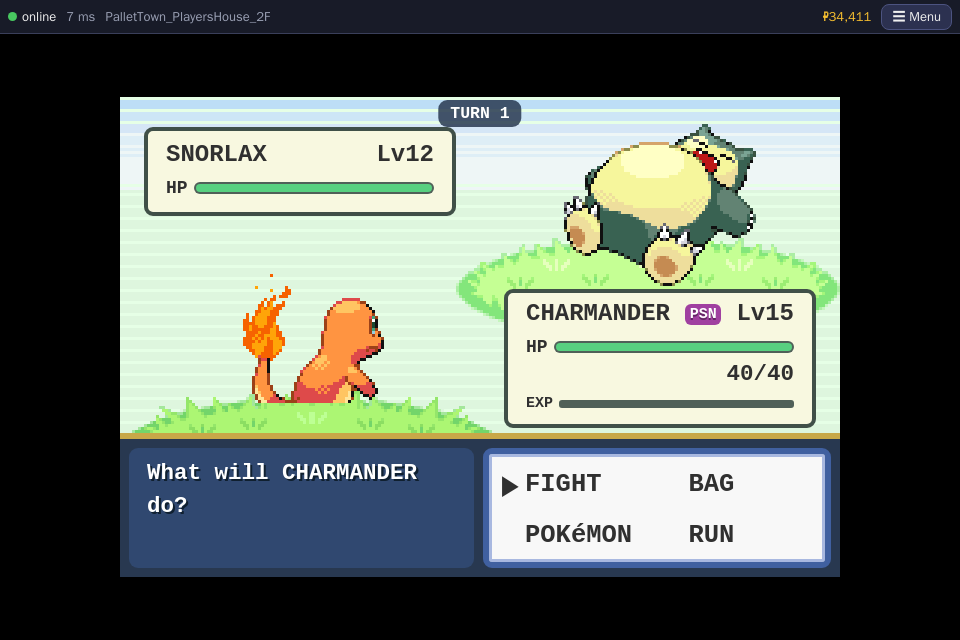
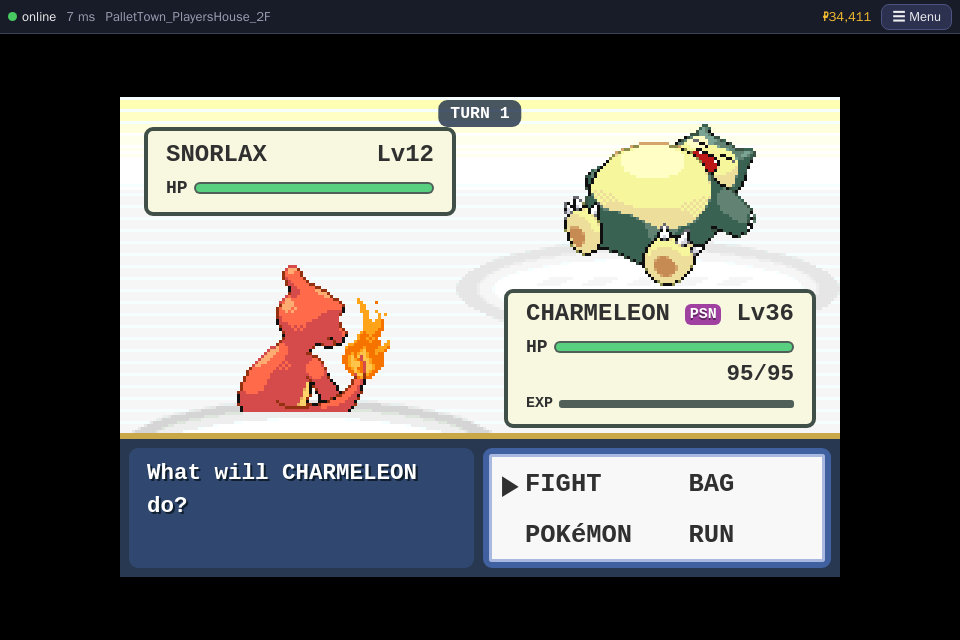
docs(battle): r3-battle REPORT, PROTOCOL section 6, verification screenshots

Changed region(s): [[0.125, 0.2812, 0.875, 0.6875], [0.125, 0.125, 0.875, 0.25], [0.3438, 0.7188, 0.4375, 0.75]]

diff --git a/REPORT.md b/REPORT.md
@@ -1,0 +1,187 @@
+# r3-battle: the Gen 3 battle system
+
+## What was built
+
+### Server battle engine (`server.game/.../battle/`)
+`TurnEngine` was rewritten as a Gen 3 engine. The rules follow the decomp's `src/battle_main.c` (turn order), `battle_script_commands.c` (move effects, catch formula) and `battle_util.c` (end of turn, abilities, items). It is split over `TurnEngine` (API), `MoveRunner` (order, attack canceler, accuracy, damage), `MoveEffects`, `StatusRules`, `AbilityRules`, `ItemRules`, `BattleAi`, `CatchCalculator` and `BattleCtx`.
+
+- **Turn order.** Switches and items go first. Moves then go by priority, then Quick Claw, then speed (paralysis quarters it; Swift Swim, Chlorophyll and Macho Brace apply), then a random tie-break. The engine works on battle positions (`BattlerRef`), so singles and doubles share one code path.
+- **Major status.**
+  - Burn: 1/8 hp at the end of the turn, and halves physical damage unless the monster has Guts.
+  - Poison 1/8; bad poison n/16, growing each turn.
+  - Paralysis: a 25% chance to lose the turn, and speed quartered.
+  - Sleep: lasts 2-5 turns (Early Bird counts down twice as fast), and the monster acts on the turn it wakes. Rest gives a fixed sleep.
+  - Freeze: 20% thaw chance per turn. A fire hit, Flame Wheel or Sacred Fire also thaws it; nothing freezes in sun.
+  - Type immunities (Poison/Steel, Fire, Ice) and ability immunities (Insomnia, Vital Spirit, Immunity, Limber, Water Veil, Magma Armor) apply, as do Safeguard and Synchronize.
+- **Volatile effects.**
+  - Confusion lasts 2-5 turns, with a 50% chance of a 40-power self-hit.
+  - Flinch only works if the target hasn't moved yet; Inner Focus blocks it; Fake Out flinches for certain.
+  - Also implemented: attraction, Leech Seed, trapping moves, Disable, Encore, Taunt, Yawn, Substitute, Protect / Endure (with the falling chance on repeated use), Focus Energy, Foresight, Lock-On, Curse, Nightmare, Perish Song, Destiny Bond, Ingrain, Charge, Stockpile, and Rage.
+- **Move effects.** Almost every Gen 3 `MoveEffect` is implemented:
+  - every stat move, plus secondary chances doubled by Serene Grace and blocked by Shield Dust;
+  - multi-hit moves and Triple Kick;
+  - drain, recoil and crash moves, and Explosion;
+  - two-turn and semi-invulnerable moves (Fly/Dig/Dive with the moves that reach them), and recharge;
+  - rampage moves, Rollout and Fury Cutter;
+  - fixed-damage moves, OHKO moves, Counter and Mirror Coat;
+  - variable-power moves: Flail, Return, Frustration, Eruption, Magnitude, Present, Hidden Power, Weather Ball, Facade, SmellingSalt, Revenge;
+  - weather moves (5 turns), screens, Mist, Safeguard and Spikes;
+  - healing moves, Wish, Future Sight, Heal Bell, Haze, Pain Split and Transform;
+  - Roar (ends a wild battle, drags out a trainer's monster), Teleport, Baton Pass, Metronome, Sleep Talk, Assist, Mirror Move and Nature Power;
+  - Thief, Knock Off and Trick; Rapid Spin; Pay Day; Camouflage and Conversion 1/2.
+
+  The few effects left (Sketch, Snatch, Magic Coat and similar) fail with "But it failed!".
+- **Damage.** It follows `CalculateBaseDamage` and `Cmd_damagecalc`:
+  - stages, with crits ignoring the stages that work against the attacker;
+  - crit stages from high-crit moves, Focus Energy, Scope Lens, Lucky Punch and Stick;
+  - Reflect and Light Screen (2/3 in doubles), spread moves at half damage, weather, Flash Fire, Mud Sport / Water Sport;
+  - the pinch abilities Overgrow, Blaze, Torrent and Swarm;
+  - Huge Power, Pure Power, Hustle, Guts, Marvel Scale, Thick Fat and Plus/Minus;
+  - held items: type boosters, Choice Band, Light Ball, Thick Club, Soul Dew, DeepSeaTooth/Scale and Metal Powder;
+  - STAB, the type chart with Foresight, and the random factor.
+- **Abilities.**
+  - On entry: Intimidate, Drizzle, Drought, Sand Stream, Trace, Pressure (also costs an extra pp), Cloud Nine and Air Lock.
+  - On contact: Static, Flame Body, Poison Point, Effect Spore, Rough Skin and Cute Charm.
+  - Absorbing: Levitate, Volt Absorb, Water Absorb and Flash Fire.
+  - Wonder Guard, Soundproof, Sturdy (against OHKO moves, as in Gen 3), Damp, Liquid Ooze, Rock Head and Suction Cups.
+  - End of turn: Speed Boost, Shed Skin and Rain Dish.
+  - Truant, Natural Cure, Compound Eyes, Sand Veil and Battle/Shell Armor.
+  - Stat-drop guards: Clear Body, White Smoke, Hyper Cutter and Keen Eye.
+  - Trapping: Shadow Tag, Arena Trap and Magnet Pull.
+- **Held items.** The effect table is generated from the decomp's `src/data/items.h` (`HOLD_EFFECT_*` and their params, 71 items):
+  - Leftovers and Shell Bell;
+  - every berry: hp berries, confusion berries keyed to the nature's disliked flavour, pinch stat berries, Lansat, Starf, the status berries, Lum, Persim and Leppa;
+  - White Herb, Mental Herb, Quick Claw, King's Rock, BrightPowder / Lax Incense, Focus Band, Scope Lens and Choice Band (with its move lock);
+  - Smoke Ball, Macho Brace, Amulet Coin, Lucky Egg, Exp. Share and Everstone.
+
+  Wild monsters roll the species' held items (50% common, 5% rare). Trainer monsters carry their decomp held items.
+- **AI.**
+  - Wild monsters use a random move at a random foe.
+  - Trainers score their moves the way the Gen 3 AI scripts do (check bad move, try to faint, check viability). They skip immune targets, status a monster that already has one, and stat moves at the cap.
+  - Trainers use their decomp `items` (potions and status heals) when it makes sense.
+- **Escape.** The Gen 3 run formula (speed ratio + 30 per attempt), Smoke Ball, Run Away and the trapping blockers.
+- **Catching** (`CatchCalculator`). This is `Cmd_handleballthrow`:
+  - catch rate × ball ÷ 10 × hp factor, ×2 for sleep or freeze, ×1.5 for poison, burn or paralysis;
+  - the shake test is `1048560/sqrt(sqrt(16711680/odds))` against 16-bit rolls, so a throw shows 0-3 shakes, or 3 and caught;
+  - ball multipliers: Poké, Great, Ultra, Master, Safari, Net, Dive (underwater maps), Nest, Repeat (already owns that species), Timer (battle turns), Luxury and Premier;
+  - the ball is taken from the bag; trainers block balls ("Don't be a thief!"); a sixth catch goes to the PC.
+- **In-battle bag** (`BattleItemEffects`):
+  - potions and drinks, revives, single-status heals, Full Heal, Full Restore;
+  - PP restorers (one-move items ask for the move);
+  - X items, Dire Hit, Guard Spec, Poké Doll / Fluffy Tail;
+  - every ball.
+
+  The item is consumed and spends that position's turn. Balls are refused against trainers and players. The usable bag goes to the client in the extension state.
+- **Persistence.** Migration `V8_1` adds `pokemon.status` (Gen 3 packed status1), `friendship` and `held_item`, and `Pokemon` gains those three fields.
+  - Status, held items and friendship are written back after every battle. Natural Cure clears the status; a faint costs 1 friendship and a level-up gives +5/+3/+2.
+  - The status carries into the field and the next battle. A Poké Center heal (`StoryPlayerService.healParty`) and the field status heals clear it.
+- **EXP.** It is split between the party monsters that fought the defeated monster, with Exp. Share taking half, Lucky Egg ×1.5 and traded monsters ×1.5. EVs go to every recipient, and moves are learned on every level gained.
+
+### Double battles
+- **Trainer doubles.** A decomp trainer with `doubleBattle = TRUE` (Hoenn twins, Tate & Liza, and so on) is fought 2v2 when the player has two healthy monsters.
+- **Turn flow.** Each position picks with a target. Spread moves hit both foes at half damage; Earthquake-style moves hit the ally too. Fainted positions are refilled one by one; a position with no bench left stays empty.
+- **PvP 2v2.** The duel rules carry a `doubles` flag. Both views share the sides and the field, and each player's choices (targets flipped) resolve in one engine call.
+- **Per-viewer names.** Battle lines carry name tokens that each viewer reads as "X" / "Foe X" / "Wild X".
+
+### Evolution (`EvolutionService`, `codegen` evolution table)
+- **Data.** A new codegen generator reads `src/data/pokemon/evolution.h` (184 rows, national dex numbers). It also emits the GBA item-name table and the hold-effect table.
+- **`tryEvolve(mon, trigger)`** follows `GetEvolutionTargetSpecies`. Level-up methods are level, friendship ≥ 220 (day 12-23 / night 0-11), attack vs defense, Silcoon/Cascoon by personality, and Ninjask, which also leaves a Shedinja behind. Trade and trade-with-item are covered too. Stones are matched by item. An Everstone blocks level evolutions.
+- **Hooks.** After each battle the monsters that levelled are checked. `useEvolutionItem(session, charId, monId, itemId)` is the stone hook, and `FieldItemService` calls it for evolution stones. `onTraded(charId, mon)` is the trade hook for the social branch.
+- **Scene.** It plays over `{"t":"evo"}` and the client answers with `EvolutionReplyPacket`; B stops it.
+- **On completion.** The species changes and the stats are recomputed (lost hp stays lost). The new species' moves at the current level are learned, with a prompt when the moveset is full. The party is synced, and a stone is used up only when the evolution completes.
+
+### Wild encounters (`EncounterService`, checked against `src/wild_encounter.c`)
+- **Tiles.** Before, only grass rolled. Now cave floors (`MB_CAVE`), `MB_INDOOR_ENCOUNTER`, deep sand / footprints and ash grass roll the land table too. FireRed tiles roll by their metatile **encounter-type bits** (land / water), which the codegen now reads. Surfable water rolls the WATER table.
+- **Rate.** Table rate × 16 against 2880, with a 60% gate when stepping onto a new tile type. The lead's ability changes the rate (both games: Stench, Illuminate; Emerald only: White Smoke, Arena Trap), as does a Cleanse Tag.
+- **FireRed only.** The per-map step cooldown and the miss rate buff.
+- **Emerald only.**
+  - Static / Magnet Pull force an Electric / Steel slot half the time.
+  - Hustle / Vital Spirit / Pressure push the level to the slot's maximum half the time.
+  - Keen Eye / Intimidate skip weak encounters.
+- **Slots.** The slot percentages come from the decomp JSON, and the repel works as before.
+- **Background.** `terrainFor` gives the battle background as `BattleSetup_GetEnvironmentId` does (grass, long grass, sand, cave, building, water, pond, underwater, mountain, plain).
+
+### Client, gateway and browser
+- **Protocol.** There is a new extension channel (see PROTOCOL changes). `BattleClient` turns it into state: format, positions, statuses, confusion, abilities, items, weather, trainer pic, background, music, bag and the evolution scene. It also adds `fightAt` (position and target), `useItem`, `throwBall(item)` and `answerEvolution`. FX entries carry entity ids, sent as strings because 64-bit ids don't fit a JS number.
+- **`battle.js` / `battle.css`:**
+  - double-battle layout with compact info boxes, and a target picker (foe 1 / foe 2 / ally) for single-target moves;
+  - PSN/BRN/PAR/SLP/FRZ status chips in the info boxes and party lists;
+  - a full BAG with ITEMS / BALLS / BATTLE pockets and party / move target pickers;
+  - the terrain background from the exported battle backgrounds;
+  - the trainer's front sprite sliding in and stepping aside at send-out; the player's back sprite with its throw frames;
+  - move animation sprite sheets per type flying from attacker to target;
+  - ability and item banners, a weather overlay, a confusion swirl, a sleep "Z";
+  - ball colours per ball; the break-open animation is now reachable;
+  - the evolution scene: flashing silhouettes speeding up, B stops it, "Congratulations!" with the learned moves. It waits until the battle screen is gone.
+  - the duel dialog gains a 1v1 / 2v2 choice.
+- **Assets** (`BattleAssetsExport`, a new file in `:web.assets`):
+  - 166 trainer front sprites;
+  - Brendan, May, Red and Leaf back sprites;
+  - 20 Emerald and 18 FireRed battle backgrounds, rendered from tiles, tilemap and palette. They include the leader, gym, stadium, Elite Four, champion and Aqua/Magma palettes, chosen by trainer class.
+  - 22 animation sprite sheets.
+- **Music.** The battle state's `music` key is `wild|trainer|gym|elite|champion|rival|team|pvp`. `manifest.battleMusicExtra[region]` has the elite / champion / rival / team / pvp songs, next to `battleMusic.gym`.
+
+## How it was verified
+- **Tests.** `:server.game:test :protocols.game:test :client:check :web.gateway:test :web.assets:test :codegen:test` ran 505 tests with 0 failures. New tests:
+  - `Gen3RulesTest` (28 tests):
+    - status: burn damage and halving, poison and toxic growth, type immunities, paralysis speed and Thunder Wave vs Ground, sleep turns and acting on wake, freeze thaw by fire, confusion and Own Tempo, flinch / Fake Out, the secondary chance;
+    - abilities: Intimidate, Levitate, Sturdy, Volt Absorb, Static rate, Swift Swim, Overgrow;
+    - held items: Leftovers, Oran, Lum, Choice Band, Quick Claw;
+    - catching: the catch odds and every ball multiplier, the shake distribution;
+    - the rest: bag items, doubles spread and targeting, Protect, Rain Dance's 5 turns, escape, priority, status persistence.
+  - `EvolutionAndEncounterTest` (14 tests):
+    - evolution: level, Everstone, friendship with day/night, stones, trade with and without an item, Wurmple, the scene proceeding and B stopping it, the stone consumed;
+    - encounters: encounter tiles, terrain mapping, slot percentages, rate and Stench.
+  - `BattleServiceR3Test`:
+    - a double trainer battle (format 2, waiting for both picks, a KO of both foes);
+    - the trainer blocking a ball;
+    - a potion consumed and spending the turn;
+    - status persisting after a battle.
+  - Codec tests for the new packets and the doubles flag, plus Dispatcher tests for every new message.
+- **Gateway e2e.** ALL OK on 3 consecutive runs against freshly created databases. One earlier run timed out at the trade step ("offers visible"); that step is outside the battle code, and the next three runs passed.
+- **Real stack** (login 2196, game 7867, gateway 8510, own Postgres pair, docker Chromium). I looked at every screenshot; they are in `docs/web/r3-battle/`.
+  - **Status battle (01-05).** The poison set on the monster before the battle shows as PSN when it starts. The BAG offers Antidote with a party target and cures it. Thunder Wave paralyzes Snorlax (PAR chip). Throughout the rest of the run the caught Snorlax kept PAR in the party list.
+  - **Catch fails, then succeeds (06-10).** The BALLS pocket; a Poké Ball breaks free ("Oh, no! The POKéMON broke free!"); then the Master Ball (purple) holds: "Gotcha!", result CAUGHT, ball taken from the bag.
+  - **Evolution.**
+    - 11-13: a Thunderstone on Pikachu evolves it into Raichu.
+    - 14 and 14b: Charmander levels to 16 in a battle and the scene starts after the battle screen closes; this run evolved into Charmeleon.
+    - 15: B stops Charmeleon → Charizard ("Huh? CHARMELEON stopped evolving!"), and the species is unchanged.
+  - **Hoenn double trainer battle (16-20d).** Tate & Liza (`/testtrainer 271 hoenn`) on the gym-leader background, with Claydol and Xatu against Charmeleon and Raichu. The target picker appears (CLAYDOL / XATU / RAICHU ALLY). Claydol's Earthquake hits both of ours and its own ally, and Xatu, a Flying type, is immune. There are two forced replacements, a second turn is fought, and an empty position stays empty.
+  - **2v2 PvP (21-24).** Two concurrent browsers duel with `doubles: true`. Each picks targets for both positions. We saw Leech Seed, Thunder Wave paralysis and the end-of-turn sap. Each side reads its own monsters without the "Foe" prefix.
+  - **Trainer intro (27-29).** Brawly's front sprite and Red's back sprite before the send-out.
+  - **Mobile (25, 26).** A burned monster's battle and the bag on a Pixel 7.
+
+## Not done / known limits
+- **Encounter features from other lanes.**
+  - Fishing / Rock Smash encounters need the rods and the field move (r3-field / r3-items). `EncounterService` reads the decomp tables for them but does not trigger them.
+  - Bike and flute rate modifiers aren't applied; the server has no bike or flute state.
+  - Water encounters fire on surfable water tiles, which become reachable once r3-field ships Surf.
+- **Trade evolutions.** `EvolutionService.onTraded` is exposed, but `TradeService` (r3-social) still has to call it after a completed trade. I didn't touch it, to avoid a merge conflict in their constructor and tests.
+- **Field poison.** The status persists into the field, but poison damage every 4 steps is field-movement logic (r3-field) and is not implemented.
+- **Held items outside battle.** The battle uses `Pokemon.heldItem` (wild and trainer items, Thief / Trick). Giving and taking items in the party menu is r3-items' work; `/monset <slot> held <ITEM>` sets one for testing.
+- **Moves and mechanics not implemented.** Beauty (Feebas) evolution, Sketch, Snatch, Magic Coat, Imprison, Grudge, Follow Me redirection, Pursuit's switch bonus and Forecast fail or act as a plain hit. Low Kick uses a flat 60 power because the server has no weights. Gen 3 trainer AI switching is not modelled.
+- **Music.** The battle state's `music` key and `manifest.battleMusicExtra` are exported, but the player that picks the song is `main.js`'s `wantedSong` (r3-present). It still picks wild/trainer and needs a two-line change to use `battle.music`.
+- **Opponent name on the cross-region dev path.** When a trainer from the other region is started with `/testtrainer <id> hoenn`, the very first "X sent out" line could still use the local region's trainer name. Since the extended state now goes first this is fixed in practice, but it is not covered by a test.
+
+## Files touched outside my lane (small, additive)
+- `common/.../Pokemon.kt`: three fields with defaults (`status`, `friendship`, `heldItem`) and `StatusCondition`.
+- `common/.../TileBehavior.kt`: new entries appended (CAVE, INDOOR_ENCOUNTER, DEEP_SAND, ASH_GRASS, LAND_ENCOUNTER, SAND, MOUNTAIN, POND_WATER, DEEP_WATER) and `hasLandEncounters` / `isSurfableWater`.
+- `codegen/.../maps/MetatileBehaviors.kt`: classifies those behaviors and FireRed's encounter-type bits.
+- `codegen/build.gradle.kts`: the new `evolution` generator.
+- `codegen/.../trainer/*` and `TrainerRegistry.kt`: `pic`, `className`, `items`, `music` and `heldItemName`, all defaulted.
+- `server.game/.../storage/CharacterRepository.kt` and `MarketRepository.kt`: map the three new columns.
+- `server.game/.../services/StoryPlayerService.kt`: the Poké Center heal clears the status (one line).
+- `server.game/.../services/FieldItemService.kt`: an evolution-stone hook (optional constructor param) and the field status cure.
+- `server.game/.../handler/GameAppHandler.kt`: 2 handlers and 1 constructor param.
+- `server.game/.../di/ChatCommandModule.kt`: the `/monset` dev command.
+- `protocols.game/.../GameProtocol.kt`: 3 registrations.
+- `web/static/js/net.js`: the `evolution` section name.
+- `web/assets-export/.../Main.kt`: puts `battle` and `battleMusicExtra` in the manifest, and adds the exporter's failures.
+- Tests adjusted: `TurnEngineTest`, `BattleServiceTest` (start sequence, ball tests), `StateJsonTest` (section list, r3 fields), `DispatcherTest` and `DuelRulesPacketsTest`.
+
+## PROTOCOL changes (additive)
+`docs/web/PROTOCOL.md` section **6. r3-battle additions**:
+- **Browser → gateway.** New messages `battle.item`, `evolution.answer` and `evolution.close`. Optional `pos` / `target` on `battle.fight`, `item` on `battle.ball`, and `doubles` on `duel`.
+- **Gateway → browser.** New `battle` fields, new `fx` kinds and ids, and the `evolution` section.
+- **Game protocol.** s2c **0xE6** `BattleExtPacket`, c2s **0xF0** `BattleExtActionPacket` and c2s **0xF2** `EvolutionReplyPacket`. The reserved s2c 0xF0-0xF3 were already taken by retail packets, so s2c uses 0xE6, which was free in every r3 worktree when picked. `DuelRules` packets gain a trailing flags byte.
+- **Assets.** `manifest.battle` and `manifest.battleMusicExtra`.

diff --git a/docs/web/PROTOCOL.md b/docs/web/PROTOCOL.md
@@ -281,3 +281,35 @@ serves `.mid` as `audio/midi`.
 - Controls: keyboard (arrows/WASD, Z/Space = A, X/Esc = B, Shift = run, Enter = chat), and on touch
   devices an on-screen D-pad + A/B buttons (multi-touch, no scroll/zoom on the canvas). UI panels
   (battle menu, trade, market, shop, chat) are HTML overlays usable by touch.
+
+## 6. r3-battle additions (all additive / optional)
+
+### 6.1 Browser → gateway
+| message | fields | meaning |
+|---|---|---|
+| `battle.fight` | `move` 0-3, optional `pos` 0-1, optional `target` `{side: "me"|"foe", pos: 0-1}` | a move for a battle position; without `pos`/`target` it is the old single-battle message |
+| `battle.item` | `item` (wire id), optional `mon` (party monster id, string), `moveSlot` 0-3 (one-move PP items), `pos` 0-1 | uses a bag item in battle (medicine on any party monster, X items on the position's monster); spends that position's turn |
+| `battle.ball` | optional `item` | throws that ball (default Poké Ball) |
+| `evolution.answer` | `proceed` bool | `false` = B pressed during the scene ("stopped evolving") |
+| `evolution.close` | — | closes a finished / cancelled evolution scene |
+| `duel` | optional `doubles` bool | 2v2 double duel (needs two healthy monsters on both sides, else 1v1) |
+
+### 6.2 Gateway → browser
+- `battle` gains: `format` (1|2), `actives` (party slot per position, -1 empty), `choosingPos` (position picking next, null when all picked), `owedSwitches`, `mine` / `foes` (monster per position, same shape as `me` / `foe`), `terrain` (background key, see 6.4), `music` (`wild|trainer|gym|elite|champion|rival|team|pvp`), `weather` (`none|rain|sun|sand|hail`), `trainer` `{pic, class}` or null, `bag` `[{id, name, count, target: foe|party|active|none, pocket: medicine|balls|battle, perMove?}]` (only items usable in this battle; no balls against trainers / players).
+- Every battle monster (`me`, `foe`, `mine[]`, `foes[]`, `party[]`) gains `id` (string), `slot`, `status` (`slp|psn|tox|brn|frz|par` or null), `confused`, and for own monsters `ability`, `item`, `substitute`. Moves gain `target` (the decomp MoveTarget: `SELECTED`, `BOTH`, `USER`, `FOES_AND_ALLY`, ...).
+- `fx` entries carry `id` (string entity id) where they concern one monster (`move` also `targetId`, `targets`), `switch` carries `pos`, `ball` carries `ball` (name), real `shakes` 0-3 and `caught`. New kinds: `status` (`status`), `ability` (`ability`, `name`), `item` (`item`, `consumed`, `name`), `weather` (`weather`), `volatile` (`kind`: confused|substitute|seeded, `on`), `revive`; `hp` gains `reason` (move|poison|burn|leftovers|berry|recoil|drain|weather|item|...).
+- New top-level section `evolution`: `{id, seq, phase: start|evolving|stopping|done|cancelled, fromDex, toDex, name, toName, learned[]}` or null. It can appear outside a battle (stones, trades) and after one (level-up); the browser plays it once the battle screen is gone.
+- `rules` / `invite.rules` gain `doubles: true` when set.
+
+### 6.3 Game protocol (OpenMMO-only, r3-battle)
+- s2c **0xE6** `BattleExtPacket` — UTF-8 JSON (u32 length): `{"t":"state",...}` extended battle state, `{"t":"events","e":[...]}` ordered extension events between the retail packets, `{"t":"evo",...}` evolution scene. (The reserved s2c 0xF0-0xF3 were already used by retail packets.)
+- c2s **0xF0** `BattleExtActionPacket` `{position u8, kind u8 (0 move,1 item,2 switch,3 run), id s16, targetSide s8, targetPos s8, targetEntity s64}`.
+- c2s **0xF2** `EvolutionReplyPacket` `{entityId s64, proceed u8}`.
+- `DuelRulesChallengePacket` / `DuelRulesPacket` (0xEE) gain a trailing flags byte (bit 0 = doubles); senders that leave it out mean 1v1.
+
+### 6.4 Static assets (`manifest.battle`, `manifest.battleMusicExtra`)
+- `battle.trainers[<TRAINER_PIC_ suffix lower case>]` → front sprite PNG (64x64).
+- `battle.backs[brendan|may|red|leaf]` → `{file, frame, frames}` (throw animation frames stacked vertically).
+- `battle.backgrounds[<region>][<key>]` → 240x160 PNG; keys `tall_grass long_grass sand underwater water pond_water rock cave building plain gym leader stadium champion elite_<name> team_aqua team_magma` (FireRed: no team_*, elite_lorelei/bruno/agatha/lance).
+- `battle.anims[<TYPE>|hit|sleep|ball|sparkle|stat]` → `{file, frame, frames}` sprite sheets from graphics/battle_anims.
+- `battleMusicExtra[<region>]` → `{elite, champion, rival, team, pvp, victoryElite}` song constants (alongside `battleMusic.gym`), picked with `battle.music`.
